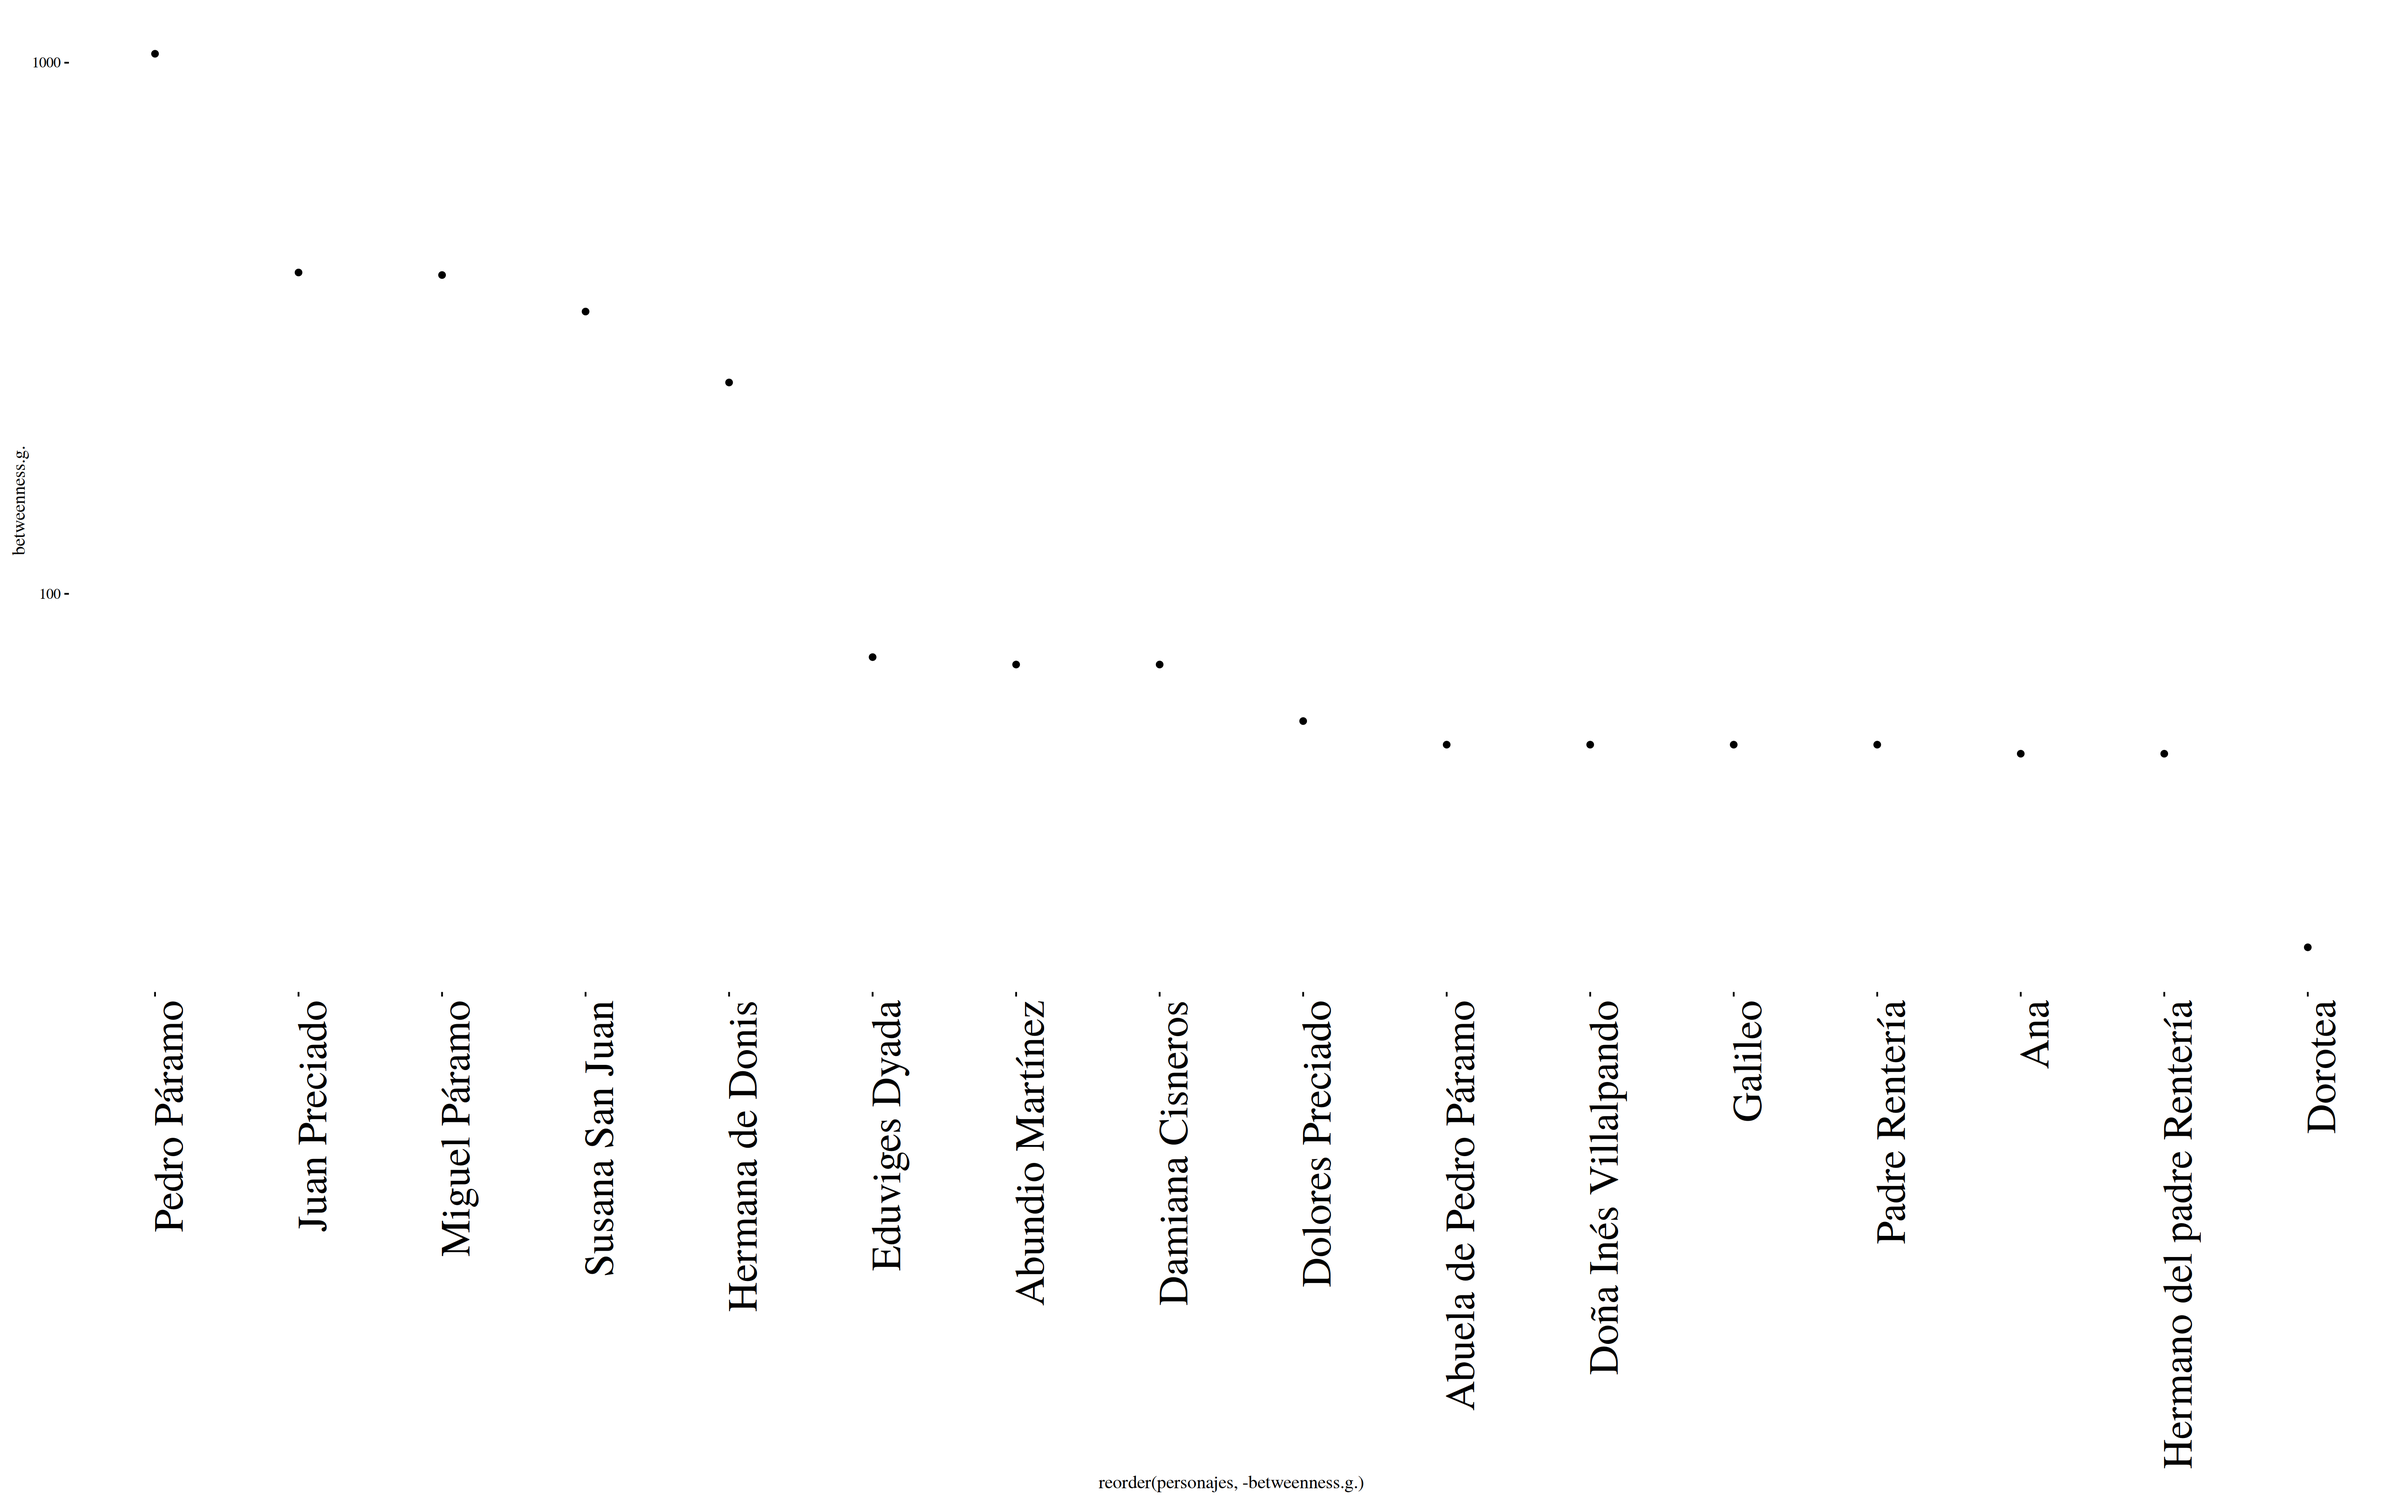
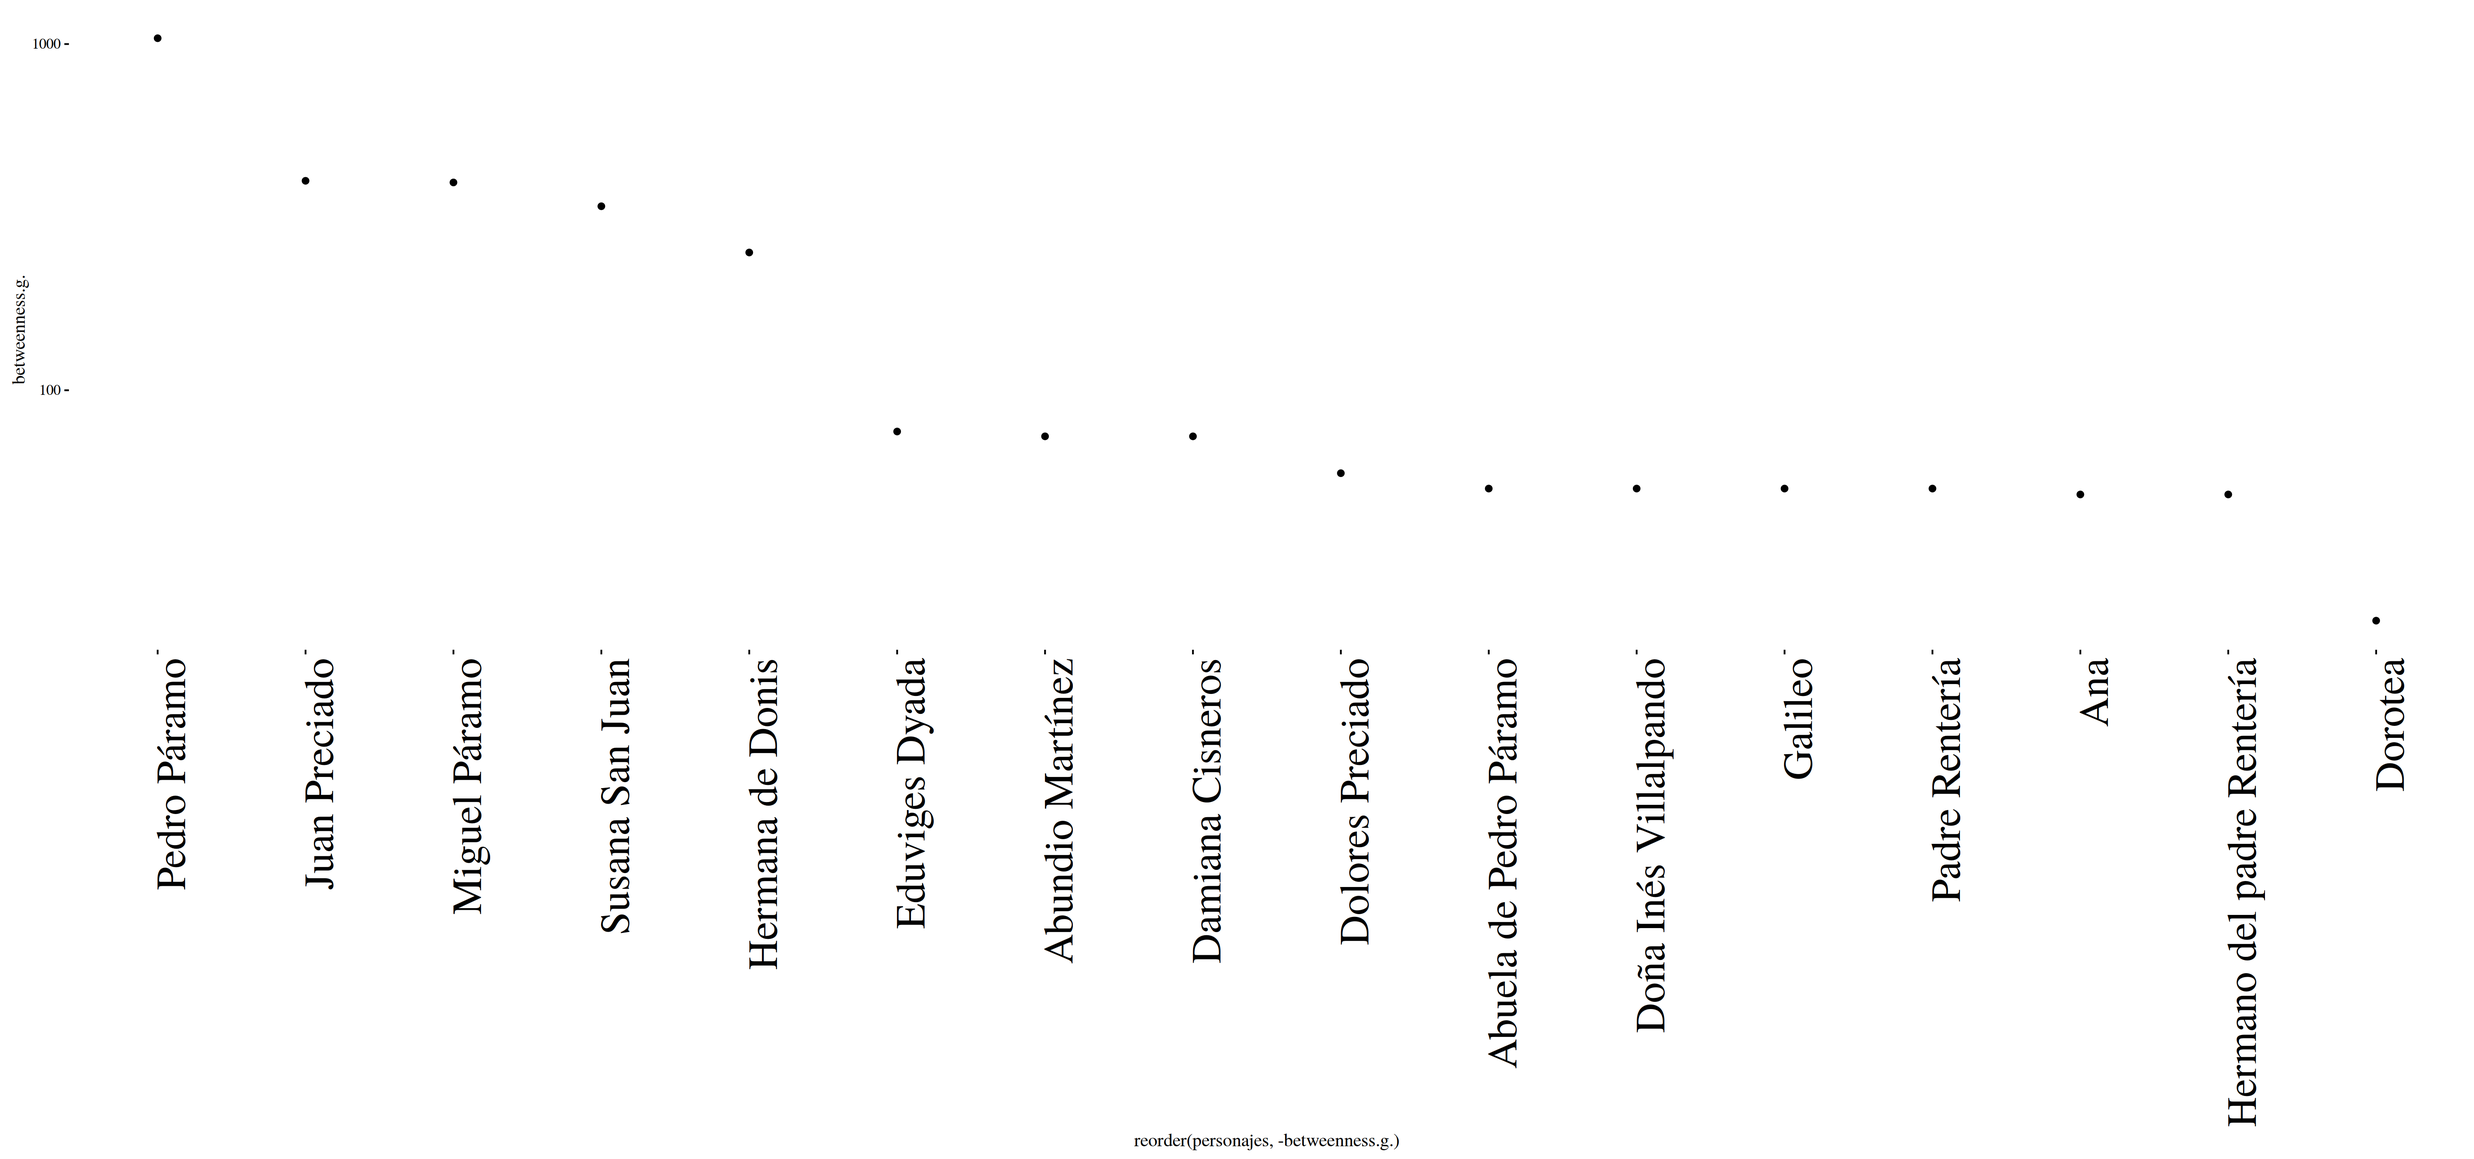
Ajustando gráfico y completando transpas

diff --git a/wcmcs17.html b/wcmcs17.html
@@ -38,20 +38,32 @@
 	<section>
 	  <h1>O</h1>
 	  <h3 class='fragment'>mientras que esperáis</h3>
-	  <h2 class='fragment'>Soy <code>@jjmerelo</code>/<code>jj.github.io</code></h2>
+	  <h2 class='fragment'>Soy <code>@jjmerelo</code> 👨💻  <code>jj.github.io</code></h2>
 	  <h3 class='fragment'>Y esta charla está en <a href='http://jj.github.io/literaturame/wcmcms17.html'><code>jj.github.io/literaturame/wcmcs17.html</code></a></h3>
 	</section>
 
 
 	<section>
-	  <section>
+	  <section data-background='img/comala.jpg'>
 	    <h2>Vine a Comala porque me dijeron que acá vivía mi padre,
 	      un tal Pedro Páramo.</h2>
+	  </section>
+
+	  <section>
 	    <img src='https://farm4.staticflickr.com/3247/3458205039_eef0402dba_m_d.jpg' alt='Portada de Pedro Páramo de Juan Rulfo' width='500'>
 	  </section>
 	  
 	  <section>
 	    <img src='https://farm1.staticflickr.com/22/38168969_019a4beae9_o_d.jpg' alt='Leyendo Pedro Páramo'>
+	  </section>
+
+
+	  <section> <img src='data/betweenness-pedro-páramo.png' alt='gráfico betweenness'>
+
+	    <aside class='notes'>Pedro Páramo, la novela, es un sistema complejo</aside>
+
+
+	       
 	  </section>
 	  
 	</section>
